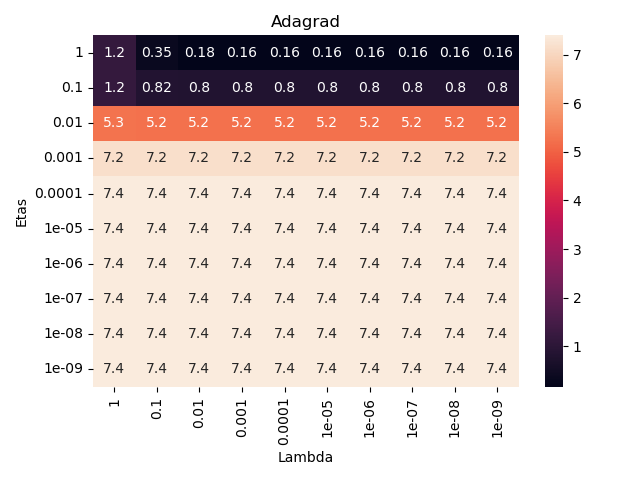
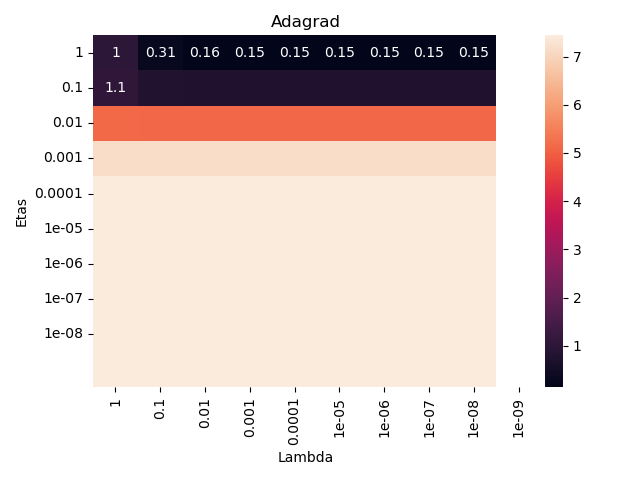
Added heatmap in partaridge for method and lambda value.

diff --git a/partARidge.py b/partARidge.py
@@ -158,11 +158,12 @@ y = f(x) + 0.3*np.random.randn(n_datapoints, 1)
 X = np.c_[np.ones(n_datapoints), x, x**2]
 
 n_etas = 10
-n_lams = 10
+n_lams = 9
 etas = [10**(-k) for k in range(n_etas)]
 lams = [10**(-k) for k in range(n_lams)]
 batches = 10
 epochs = 20
+n_methods = 8
 
 #Keep track of best achieved MSE
 MSE_best_by_method = []
@@ -178,7 +179,8 @@ for i, eta in enumerate(etas):
         #print(theta)
         MSEs[i][j] = cost_OLS(y, X, theta)
 
-MSE_best_by_method.append(np.min(MSEs))
+MSE_best_by_method.append(np.min(MSEs, axis = 0))
+print(f"Best by method MSE {np.shape(np.asarray(MSE_best_by_method))}")
 MSE_method_names.append("Constant")
 print(f"MSE momentum: {MSEs}")
 plot_etas_lams(etas, lams, MSEs, method_name, method_name + ".png")
@@ -192,7 +194,7 @@ for i, eta in enumerate(etas):
         theta = fit(X, y, grad_cost_Ridge_lam(lam), scheduler, epochs=epochs)
         MSEs[i][j] = cost_OLS(y, X, theta)
 
-MSE_best_by_method.append(np.min(MSEs))
+MSE_best_by_method.append(np.min(MSEs, axis = 0))
 MSE_method_names.append("Momemtum")
 print(f"MSE momentum: {MSEs}")
 plot_etas_lams(etas, lams, MSEs, method_name, method_name + ".png")
@@ -207,7 +209,7 @@ for i, eta in enumerate(etas):
         theta = fit(X, y, grad_cost_Ridge_lam(lam),scheduler, batches=batches, epochs=epochs)
         MSEs[i][j] = cost_OLS(y, X, theta)
 
-MSE_best_by_method.append(np.min(MSEs))
+MSE_best_by_method.append(np.min(MSEs, axis = 0))
 MSE_method_names.append("Constant SGD")
 print(f"MSE momentum: {MSEs}")
 plot_etas_lams(etas, lams, MSEs, method_name, method_name + ".png")
@@ -223,7 +225,7 @@ for i, eta in enumerate(etas):
         #print(theta)
         MSEs[i][j] = cost_OLS(y, X, theta)
 
-MSE_best_by_method.append(np.min(MSEs))
+MSE_best_by_method.append(np.min(MSEs, axis = 0))
 MSE_method_names.append("Momemtum SGD")
 print(f"MSE momentum: {MSEs}")
 plot_etas_lams(etas, lams, MSEs, method_name, method_name + ".png")
@@ -240,8 +242,8 @@ for i, eta in enumerate(etas):
         #print(theta)
         MSEs[i][j] = cost_OLS(y, X, theta)
 
-MSE_best_by_method.append(np.min(MSEs))
-MSE_method_names.append("Adagrad SGD")
+MSE_best_by_method.append(np.min(MSEs, axis = 0))
+MSE_method_names.append("Adagrad")
 print(f"MSE momentum: {MSEs}")
 plot_etas_lams(etas, lams, MSEs, method_name, method_name + ".png")
 
@@ -256,8 +258,8 @@ for i, eta in enumerate(etas):
         #print(theta)
         MSEs[i][j] = cost_OLS(y, X, theta)
 
-MSE_best_by_method.append(np.min(MSEs))
-MSE_method_names.append("Adagrad momemtum SGD")
+MSE_best_by_method.append(np.min(MSEs, axis = 0))
+MSE_method_names.append("Adagrad mom")
 print(f"MSE momentum: {MSEs}")
 plot_etas_lams(etas, lams, MSEs, method_name, method_name + ".png")
 
@@ -273,8 +275,8 @@ for i, eta in enumerate(etas):
         #print(theta)
         MSEs[i][j] = cost_OLS(y, X, theta)
 
-MSE_best_by_method.append(np.min(MSEs))
-MSE_method_names.append("RMSProp SGD")
+MSE_best_by_method.append(np.min(MSEs, axis = 0))
+MSE_method_names.append("RMSProp")
 print(f"MSE momentum: {MSEs}")
 plot_etas_lams(etas, lams, MSEs, method_name, method_name + ".png")
 
@@ -290,8 +292,8 @@ for i, eta in enumerate(etas):
         #print(theta)
         MSEs[i][j] = cost_OLS(y, X, theta)
 
-MSE_best_by_method.append(np.min(MSEs))
-MSE_method_names.append("Adam SGD")
+MSE_best_by_method.append(np.min(MSEs, axis = 0))
+MSE_method_names.append("Adam")
 print(f"MSE momentum: {MSEs}")
 plot_etas_lams(etas, lams, MSEs, method_name, method_name + ".png")
 
@@ -305,7 +307,21 @@ path = Path(cwd) / "FigurePlots"
 if not path.exists():
     path.mkdir()
 
+plt.figure()
+ax = sns.heatmap(np.asarray(MSE_best_by_method),
+                  yticklabels=MSE_method_names, 
+                  xticklabels=lams,
+                  annot=np.asarray(MSE_best_by_method))
+ax.set(xlabel="Gradient descent methods", ylabel="Lambda value")
 
+plt.title("Best MSE error by gradient descent method for Ridge")
+#plt.xticks(rotation=-30)
+#plt.tight_layout()
+plt.savefig(path / "PartARidgeHeatMap.png")
+#plt.show()
+
+print(f"Best MSE array: {np.asarray(MSE_best_by_method)}")
+'''
 #Plot MSE by gradient method
 plt.figure()
 plt.bar(range(0, 2*len(MSE_method_names), 2), MSE_best_by_method,  tick_label =MSE_method_names)
@@ -313,6 +329,9 @@ plt.title("Best MSE error by gradient descent method for Ridge")
 plt.xticks(rotation=-30)
 plt.tight_layout()
 plt.savefig(path / "PartARidge.png")
+
+'''
+
 
 
 

diff --git a/partA.py b/partA.py
@@ -197,7 +197,6 @@ plot_etas(etas, MSEs, method_name, method_name + ".png")
 
 #Momentum
 method_name = "Momemtum"
-
 n_moms = 9
 mom_params = np.linspace(0.1, 1, n_moms)
 MSEs = np.zeros((n_etas, n_moms))
